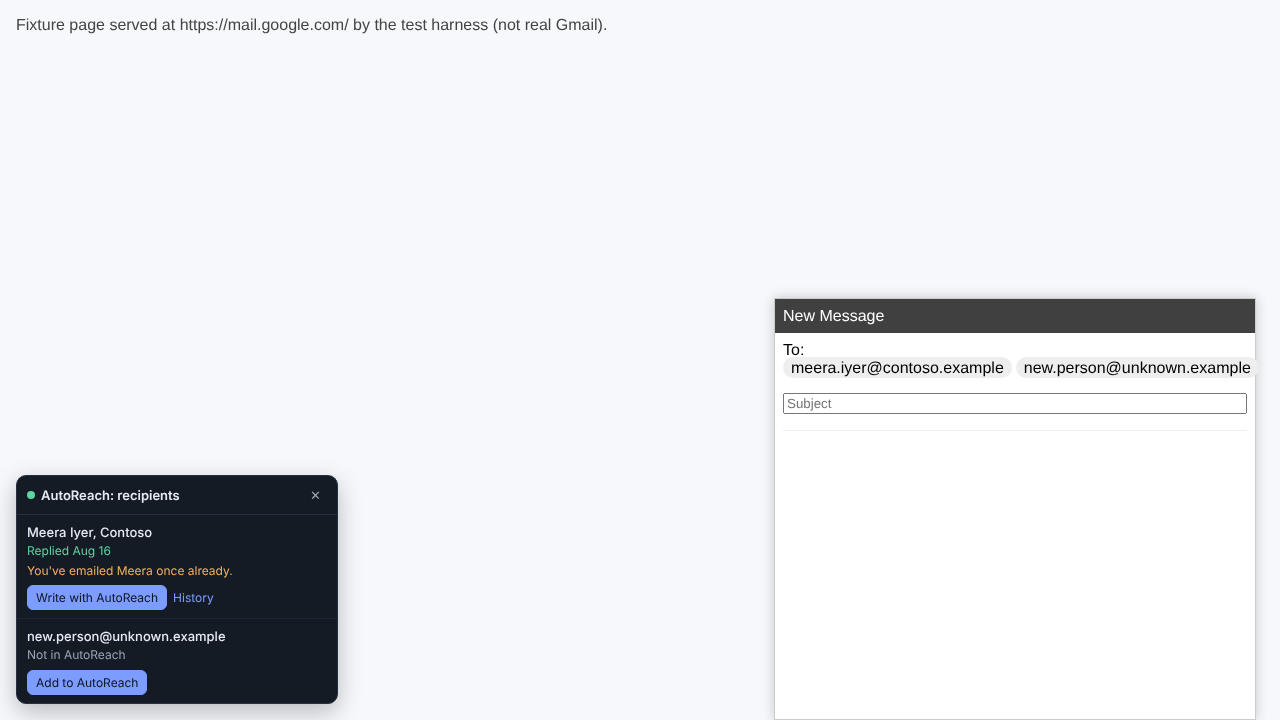
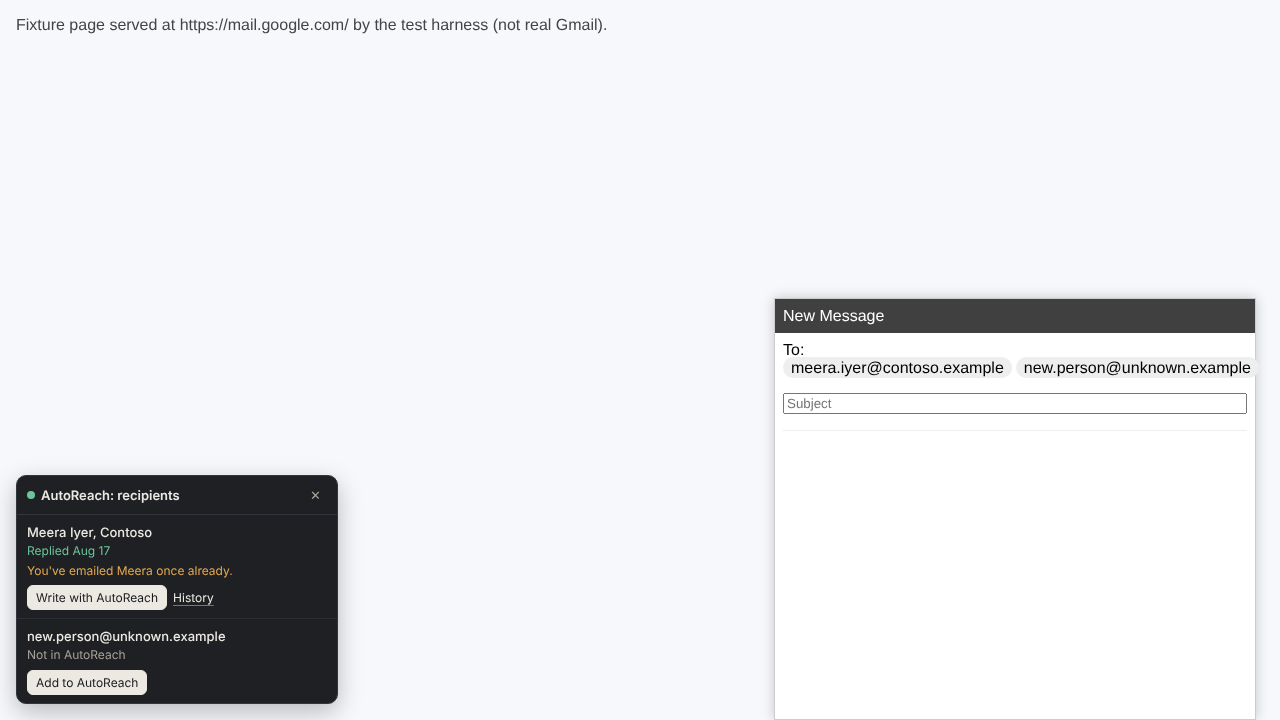
style: neutral ink-on-paper look; colour only for email status
Replaces the default blue/purple accent with warm charcoal and paper-white:
primary actions are paper on charcoal (charcoal on light in light mode),
links are underlined text, checkboxes and toggles follow the ink colour,
and colour is reserved for what happened to an email (steel sent, sand
opened, green replied, amber attention, red failed). Same palette in the
extension, the Gmail card, the favicon and the toolbar icons.

A v1 résumé whose size isn't known yet shows "from v1, not checked yet"
instead of "0 B". Screenshots in docs/ regenerated.

Claude-Session: https://claude.ai/code/session_017dGn5vSD6PMyrPGLfEUXQ9

Changed region(s): [[0.0, 0.7944, 0.1562, 0.8556], [0.0, 0.9167, 0.125, 0.9778]]

diff --git a/extension/src/content/gmail.ts b/extension/src/content/gmail.ts
@@ -65,29 +65,30 @@ async function lookup(emails: string[]): Promise<RecruiterLookupResult[] | null>
 const STYLE = `
 :host { all: initial; }
 .card { position: fixed; left: 16px; bottom: 16px; z-index: 2147483000; width: 320px; max-height: 50vh; overflow: auto;
-  font: 13px/1.45 "IBM Plex Sans", system-ui, -apple-system, "Segoe UI", sans-serif; color: #E6EAF2; background: #151B25;
-  border: 1px solid #263042; border-radius: 10px; box-shadow: 0 8px 24px rgba(0,0,0,.25); }
-.head { display: flex; align-items: center; gap: 8px; padding: 8px 10px; border-bottom: 1px solid #263042; }
+  font: 13px/1.45 "IBM Plex Sans", system-ui, -apple-system, "Segoe UI", sans-serif; color: #ECE9E2; background: #1E2024;
+  border: 1px solid #32363C; border-radius: 10px; box-shadow: 0 8px 24px rgba(0,0,0,.25); }
+.head { display: flex; align-items: center; gap: 8px; padding: 8px 10px; border-bottom: 1px solid #32363C; }
 .brand { font-weight: 600; flex: 1; display: flex; align-items: center; gap: 6px; }
-.dot { width: 8px; height: 8px; border-radius: 50%; background: #5FD3A0; }
+.dot { width: 8px; height: 8px; border-radius: 50%; background: #6CC59A; }
 button { font: inherit; cursor: pointer; border-radius: 6px; }
-.x { background: none; border: 0; color: #9AA5B8; padding: 2px 6px; }
-.x:hover { color: #E6EAF2; background: #1B2230; }
-.item { padding: 8px 10px; border-bottom: 1px solid rgba(38,48,66,.6); }
+.x { background: none; border: 0; color: #A7A39A; padding: 2px 6px; }
+.x:hover { color: #ECE9E2; background: #26292E; }
+.item { padding: 8px 10px; border-bottom: 1px solid rgba(50,54,60,.7); }
 .item:last-child { border-bottom: 0; }
 .title { font-weight: 500; overflow: hidden; text-overflow: ellipsis; white-space: nowrap; }
-.detail { color: #9AA5B8; font-size: 12px; }
-.warn { color: #F2B05E; font-size: 12px; margin-top: 2px; }
-.danger { color: #F27474; }
-.success { color: #5FD3A0; }
-.info { color: #8FB3D9; }
+.detail { color: #A7A39A; font-size: 12px; }
+.warn { color: #E3A84F; font-size: 12px; margin-top: 2px; }
+.danger { color: #E2706A; }
+.success { color: #6CC59A; }
+.info { color: #9AA7B4; }
 .actions { display: flex; gap: 6px; margin-top: 6px; }
-.btn { background: #1B2230; color: #E6EAF2; border: 1px solid #263042; padding: 3px 8px; font-size: 12px; }
-.btn:hover { border-color: #6B7689; }
-.btn.primary { background: #7C9CFF; color: #0C1222; border-color: #7C9CFF; }
-a { color: #7C9CFF; font-size: 12px; text-decoration: none; align-self: center; }
-a:hover { text-decoration: underline; }
-:focus-visible { outline: 2px solid #7C9CFF; outline-offset: 2px; }
+.btn { background: #26292E; color: #ECE9E2; border: 1px solid #32363C; padding: 3px 8px; font-size: 12px; }
+.btn:hover { border-color: #7A766E; }
+.btn.primary { background: #ECE9E2; color: #17191C; border-color: #ECE9E2; }
+.btn.primary:hover { background: #FFFFFF; }
+a { color: #ECE9E2; font-size: 12px; text-decoration: underline; text-decoration-color: #7A766E; text-underline-offset: 3px; align-self: center; }
+a:hover { text-decoration-color: #ECE9E2; }
+:focus-visible { outline: 2px solid #ECE9E2; outline-offset: 2px; }
 `;
 
 let host: HTMLElement | null = null;

diff --git a/dashboard/src/styles.css b/dashboard/src/styles.css
@@ -8,38 +8,39 @@
 
 /* Tokens are RGB triplets so Tailwind opacity modifiers work (bg-accent/10). */
 :root {
-  --bg: 15 20 28; /* #0F141C ink navy */
-  --surface: 21 27 37; /* #151B25 */
-  --raised: 27 34 48; /* #1B2230 */
-  --line: 38 48 66; /* #263042 */
-  --ink: 230 234 242; /* #E6EAF2 */
-  --muted: 154 165 184; /* #9AA5B8 */
-  --faint: 107 118 137; /* #6B7689 */
-  --accent: 124 156 255; /* #7C9CFF ink blue */
-  --accent-ink: 12 18 34; /* text on accent */
-  --sent: 143 179 217; /* #8FB3D9 */
-  --opened: 183 156 255; /* #B79CFF — soft on purpose: an uncertain signal */
-  --replied: 95 211 160; /* #5FD3A0 */
-  --warn: 242 176 94; /* #F2B05E */
-  --danger: 242 116 116; /* #F27474 */
+  --bg: 23 25 28; /* #17191C charcoal */
+  --surface: 30 32 36; /* #1E2024 */
+  --raised: 38 41 46; /* #26292E */
+  --line: 50 54 60; /* #32363C */
+  --ink: 236 233 226; /* #ECE9E2 paper */
+  --muted: 167 163 154; /* #A7A39A */
+  --faint: 122 118 110; /* #7A766E */
+  /* Primary actions are ink on paper: no brand hue. Colour is kept for status. */
+  --accent: 236 233 226;
+  --accent-ink: 23 25 28;
+  --sent: 154 167 180; /* #9AA7B4 steel: delivered, nothing more */
+  --opened: 200 174 125; /* #C8AE7D sand, muted on purpose: an uncertain signal */
+  --replied: 108 197 154; /* #6CC59A */
+  --warn: 227 168 79; /* #E3A84F */
+  --danger: 226 112 106; /* #E2706A */
   color-scheme: dark;
 }
 
 :root[data-theme='light'] {
-  --bg: 246 247 249;
+  --bg: 245 245 244;
   --surface: 255 255 255;
-  --raised: 241 243 247;
-  --line: 221 226 234;
-  --ink: 23 32 49;
-  --muted: 84 97 119;
-  --faint: 125 136 155;
-  --accent: 61 91 217;
+  --raised: 239 238 236;
+  --line: 222 220 216;
+  --ink: 28 29 31;
+  --muted: 87 85 80;
+  --faint: 128 125 118;
+  --accent: 28 29 31;
   --accent-ink: 255 255 255;
-  --sent: 62 104 148;
-  --opened: 116 82 206;
-  --replied: 22 140 92;
-  --warn: 176 104 14;
-  --danger: 200 54 54;
+  --sent: 74 95 117;
+  --opened: 140 108 52;
+  --replied: 30 132 88;
+  --warn: 168 104 12;
+  --danger: 190 58 50;
   color-scheme: light;
 }
 
@@ -54,7 +55,7 @@
     font-feature-settings: 'tnum' 0;
   }
   ::selection {
-    @apply bg-accent/30;
+    @apply bg-ink/25;
   }
   :focus-visible {
     outline: 2px solid rgb(var(--accent));
@@ -70,7 +71,22 @@
     @apply font-semibold tracking-tight;
   }
   a {
-    @apply text-accent hover:underline;
+    @apply text-ink underline decoration-faint/70 underline-offset-[3px] hover:decoration-ink;
+  }
+  /* Native checkboxes and radios follow the ink colour instead of the browser's blue. */
+  input[type='checkbox'],
+  input[type='radio'] {
+    accent-color: rgb(var(--ink));
+  }
+  /* Rows, cards and back-links are navigation, not prose: no underline. */
+  a.block,
+  a.flex,
+  a.inline-flex {
+    @apply no-underline;
+  }
+  /* Inline text actions ("Resume", "Preview") read as links. */
+  button.text-accent {
+    @apply text-ink underline decoration-faint/70 underline-offset-[3px] hover:decoration-ink;
   }
   @media (prefers-reduced-motion: reduce) {
     *,

diff --git a/extension/src/ui/styles.css b/extension/src/ui/styles.css
@@ -8,38 +8,39 @@
 
 /* Same tokens as the dashboard. Follows the system light/dark setting. */
 :root {
-  --bg: 15 20 28;
-  --surface: 21 27 37;
-  --raised: 27 34 48;
-  --line: 38 48 66;
-  --ink: 230 234 242;
-  --muted: 154 165 184;
-  --faint: 107 118 137;
-  --accent: 124 156 255;
-  --accent-ink: 12 18 34;
-  --sent: 143 179 217;
-  --opened: 183 156 255;
-  --replied: 95 211 160;
-  --warn: 242 176 94;
-  --danger: 242 116 116;
+  --bg: 23 25 28; /* #17191C charcoal */
+  --surface: 30 32 36; /* #1E2024 */
+  --raised: 38 41 46; /* #26292E */
+  --line: 50 54 60; /* #32363C */
+  --ink: 236 233 226; /* #ECE9E2 paper */
+  --muted: 167 163 154; /* #A7A39A */
+  --faint: 122 118 110; /* #7A766E */
+  /* Primary actions are ink on paper: no brand hue. Colour is kept for status. */
+  --accent: 236 233 226;
+  --accent-ink: 23 25 28;
+  --sent: 154 167 180; /* #9AA7B4 steel: delivered, nothing more */
+  --opened: 200 174 125; /* #C8AE7D sand, muted on purpose: an uncertain signal */
+  --replied: 108 197 154; /* #6CC59A */
+  --warn: 227 168 79; /* #E3A84F */
+  --danger: 226 112 106; /* #E2706A */
   color-scheme: dark;
 }
 @media (prefers-color-scheme: light) {
   :root {
-    --bg: 246 247 249;
+    --bg: 245 245 244;
     --surface: 255 255 255;
-    --raised: 241 243 247;
-    --line: 221 226 234;
-    --ink: 23 32 49;
-    --muted: 84 97 119;
-    --faint: 125 136 155;
-    --accent: 61 91 217;
+    --raised: 239 238 236;
+    --line: 222 220 216;
+    --ink: 28 29 31;
+    --muted: 87 85 80;
+    --faint: 128 125 118;
+    --accent: 28 29 31;
     --accent-ink: 255 255 255;
-    --sent: 62 104 148;
-    --opened: 116 82 206;
-    --replied: 22 140 92;
-    --warn: 176 104 14;
-    --danger: 200 54 54;
+    --sent: 74 95 117;
+    --opened: 140 108 52;
+    --replied: 30 132 88;
+    --warn: 168 104 12;
+    --danger: 190 58 50;
     color-scheme: light;
   }
 }
@@ -57,7 +58,22 @@
     font-variant-numeric: tabular-nums;
   }
   a {
-    @apply text-accent hover:underline;
+    @apply text-ink underline decoration-faint/70 underline-offset-[3px] hover:decoration-ink;
+  }
+  /* Native checkboxes and radios follow the ink colour instead of the browser's blue. */
+  input[type='checkbox'],
+  input[type='radio'] {
+    accent-color: rgb(var(--ink));
+  }
+  /* Rows, cards and back-links are navigation, not prose: no underline. */
+  a.block,
+  a.flex,
+  a.inline-flex {
+    @apply no-underline;
+  }
+  /* Inline text actions ("Resume", "Preview") read as links. */
+  button.text-accent {
+    @apply text-ink underline decoration-faint/70 underline-offset-[3px] hover:decoration-ink;
   }
   @media (prefers-reduced-motion: reduce) {
     *,

diff --git a/dashboard/src/pages/Composer.tsx b/dashboard/src/pages/Composer.tsx
@@ -23,7 +23,7 @@ import { QualityPanel } from '../components/QualityPanel';
 import { Badge, Button, Dialog, ErrorState, Field, Spinner, Toggle, useToast } from '../components/ui';
 import { api, ApiError, idempotencyKey } from '../lib/api';
 import { gmailProblem } from '../lib/gmail';
-import { fmtBytes, fmtDate } from '../lib/format';
+import { fmtResumeSize, fmtDate } from '../lib/format';
 import { useInvalidate, useMe, useOpportunities, useOpportunity, useRecruiter, useRecruiters, useResumes } from '../lib/queries';
 
 interface SendResponse {
@@ -345,7 +345,7 @@ export default function Composer() {
               <div className="flex items-center gap-2 text-xs text-muted">
                 <Paperclip className="h-3.5 w-3.5" />
                 <span className="min-w-0 flex-1 truncate" title={selectedResume.file_name}>
-                  {selectedResume.file_name} ({fmtBytes(selectedResume.size_bytes)})
+                  {selectedResume.file_name} ({fmtResumeSize(selectedResume)})
                 </span>
                 <button type="button" className="text-accent hover:underline" onClick={previewResume}>
                   Preview
@@ -470,7 +470,7 @@ export default function Composer() {
           recruiter={r}
           subject={subject}
           body={body}
-          attachment={selectedResume ? `${attachmentDisplayName(selectedResume.file_name, me.data?.settings.attachment_filename)} (${fmtBytes(selectedResume.size_bytes)})` : null}
+          attachment={selectedResume ? `${attachmentDisplayName(selectedResume.file_name, me.data?.settings.attachment_filename)} (${fmtResumeSize(selectedResume)})` : null}
           tracking={!!tracking}
           fromAccount={me.data?.gmail.account_email ?? null}
           gmailProblem={gmailProblem(me.data?.gmail)}

diff --git a/dashboard/src/pages/Settings.tsx b/dashboard/src/pages/Settings.tsx
@@ -7,7 +7,7 @@ import { cleanProfile, ExtractFromResumeDialog, ProfileEditor, profileToForm, ty
 import { Badge, Button, Confirm, Dialog, ErrorState, Field, PageHeader, SectionTitle, Spinner, TagInput, Toggle, useToast } from '../components/ui';
 import { api, download } from '../lib/api';
 import { useAuth } from '../lib/auth';
-import { browserTimezone, fmtBytes, fmtDate, fmtDateTime, plural } from '../lib/format';
+import { browserTimezone, fmtBytes, fmtResumeSize, fmtDate, fmtDateTime, plural } from '../lib/format';
 import { startGmailConnect } from '../lib/gmail';
 import { useInvalidate, useMe, useResumes, useTemplates } from '../lib/queries';
 import { useQueryClient } from '@tanstack/react-query';
@@ -354,7 +354,7 @@ function ResumesSection() {
                     {!r.has_text && <Badge tone="warning" title="No text could be read from this PDF (it may be a scanned image). It can still be attached.">no readable text</Badge>}
                   </div>
                   <p className="truncate text-xs text-muted">
-                    {r.file_name}, {fmtBytes(r.size_bytes)}, uploaded {fmtDate(r.created_at)}
+                    {r.file_name}, {fmtResumeSize(r)}, uploaded {fmtDate(r.created_at)}
                     {r.role_tags.length ? `. Best for ${r.role_tags.join(', ')}` : ''}
                   </p>
                 </div>

diff --git a/dashboard/src/pages/Onboarding.tsx b/dashboard/src/pages/Onboarding.tsx
@@ -6,7 +6,7 @@ import { cleanProfile, ExtractFromResumeDialog, ProfileEditor, profileToForm, ty
 import { Badge, Button, ErrorState, Field, Spinner, Toggle, useToast } from '../components/ui';
 import { api } from '../lib/api';
 import { useAuth } from '../lib/auth';
-import { browserTimezone, fmtBytes } from '../lib/format';
+import { browserTimezone, fmtResumeSize } from '../lib/format';
 import { useInvalidate, useMe, useResumes } from '../lib/queries';
 import { startGmailConnect } from '../lib/gmail';
 import { ResumeUpload, TimezoneSelect } from './Settings';
@@ -208,7 +208,7 @@ function ResumeStep({ form, setForm }: { form: ProfileForm; setForm: (f: Profile
               <li key={r.id} className="flex items-center gap-3 px-4 py-2.5 text-sm">
                 <FileText className="h-4 w-4 text-muted" aria-hidden />
                 <span className="min-w-0 flex-1 truncate">{r.label}</span>
-                <span className="text-xs text-muted">{fmtBytes(r.size_bytes)}</span>
+                <span className="text-xs text-muted">{fmtResumeSize(r)}</span>
                 {r.is_default && <Badge tone="accent">default</Badge>}
               </li>
             ))}

diff --git a/extension/src/popup/Settings.tsx b/extension/src/popup/Settings.tsx
@@ -42,7 +42,7 @@ export function SettingsView({ auth, onDone, onSignedOut }: { auth: AuthState; o
             }}
             className={`relative mt-0.5 h-5 w-9 shrink-0 rounded-full border transition-colors ${assist ? 'border-accent bg-accent' : 'border-line bg-raised'}`}
           >
-            <span className={`absolute left-0 top-0.5 h-3.5 w-3.5 rounded-full bg-white transition-transform ${assist ? 'translate-x-[18px]' : 'translate-x-0.5'}`} />
+            <span className={`absolute left-0 top-0.5 h-3.5 w-3.5 rounded-full transition-transform ${assist ? 'translate-x-[18px] bg-accent-ink' : 'translate-x-0.5 bg-faint'}`} />
           </button>
         </div>
         <div className="space-y-1 border-t border-line pt-3 text-muted">

diff --git a/dashboard/src/components/ui.tsx b/dashboard/src/components/ui.tsx
@@ -161,7 +161,7 @@ export function Toggle({ checked, onChange, label, description, disabled }: { ch
           checked ? 'border-accent bg-accent' : 'border-line bg-raised',
         )}
       >
-        <span className={clsx('absolute left-0 top-0.5 h-3.5 w-3.5 rounded-full bg-white transition-transform', checked ? 'translate-x-[18px]' : 'translate-x-0.5')} />
+        <span className={clsx('absolute left-0 top-0.5 h-3.5 w-3.5 rounded-full transition-transform', checked ? 'translate-x-[18px] bg-accent-ink' : 'translate-x-0.5 bg-faint')} />
       </button>
     </div>
   );

diff --git a/dashboard/src/lib/format.ts b/dashboard/src/lib/format.ts
@@ -64,3 +64,8 @@ export function fmtBytes(n: number): string {
 export function plural(n: number, one: string, many = `${one}s`): string {
   return `${n} ${n === 1 ? one : many}`;
 }
+
+/** A v1 résumé's size is unknown until AutoReach first reads the file (before a send, or on preview). */
+export function fmtResumeSize(r: { size_bytes: number | null; legacy: boolean }): string {
+  return !r.size_bytes && r.legacy ? 'from v1, not checked yet' : fmtBytes(r.size_bytes ?? 0);
+}
